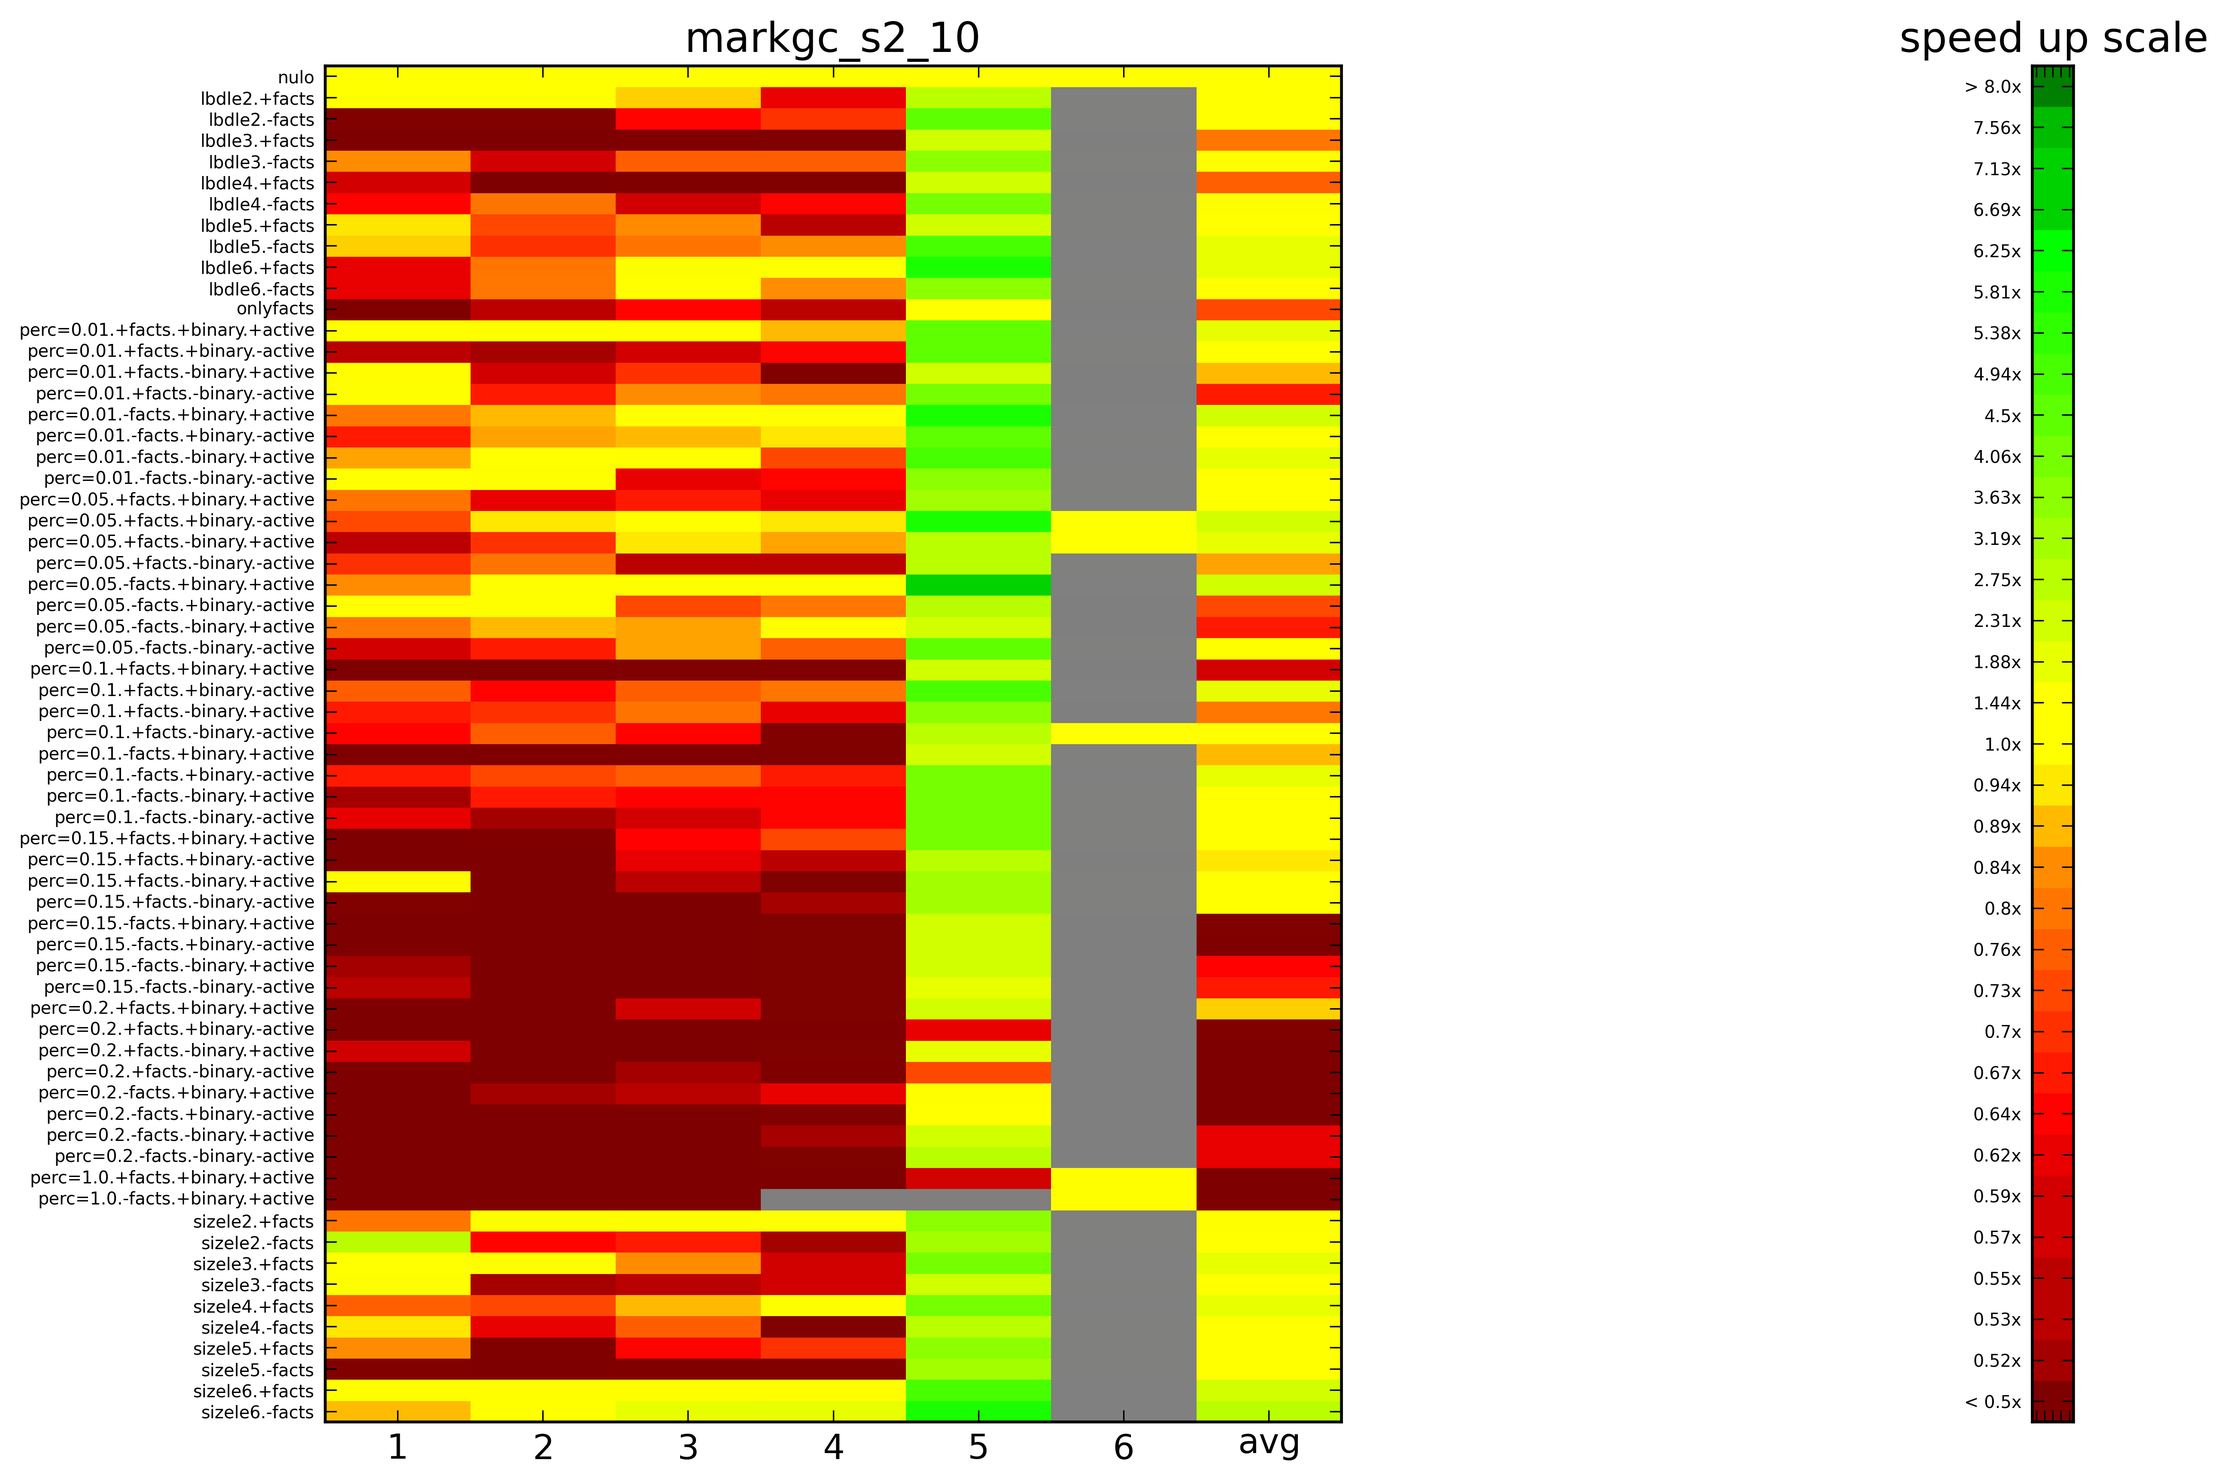
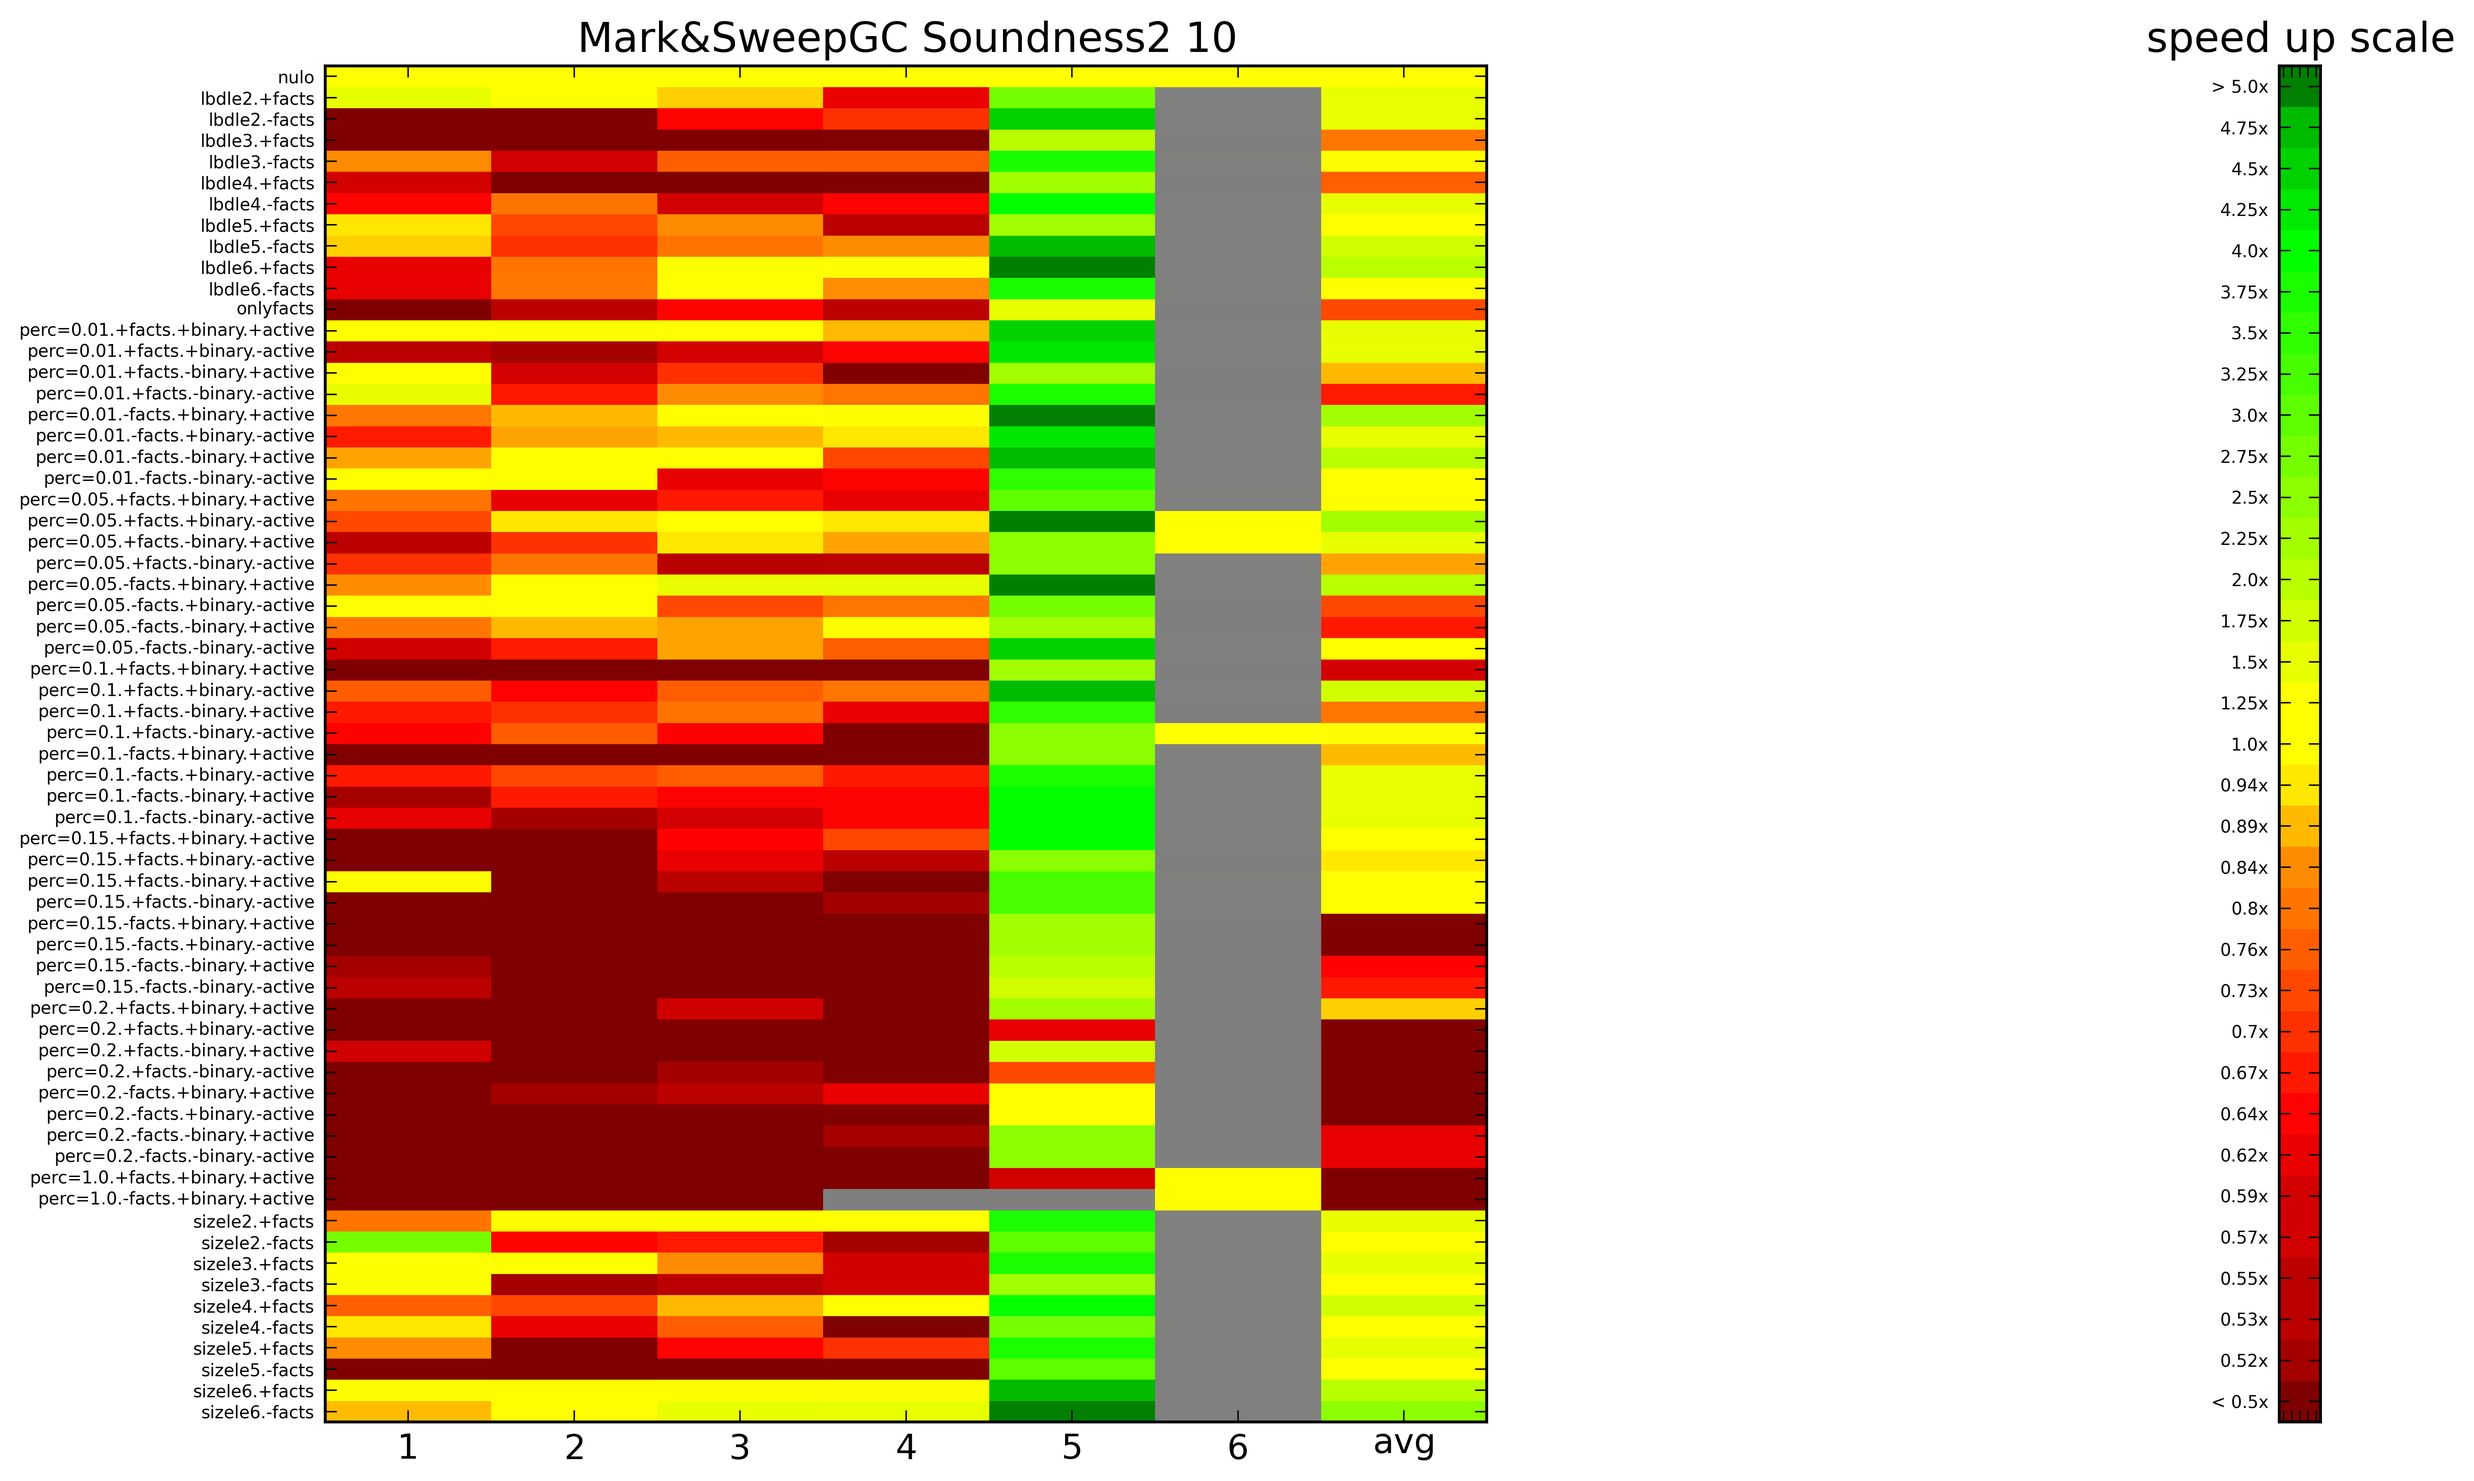
rescaling de los heatmaps

diff --git a/tesis/resultados/csv2heatmap.py b/tesis/resultados/csv2heatmap.py
@@ -101,7 +101,7 @@ try:
 	levels = float(int(sys.argv[4]))
 except:
 	levels = 32.0
-maxspeedup = 8.0
+maxspeedup = 5.0
 minspeedup = 0.5
 
 normstats = normalizedstats(readstats(filename))
